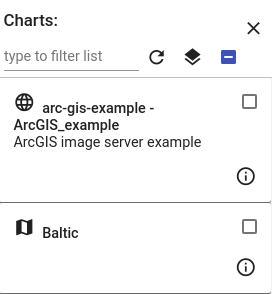
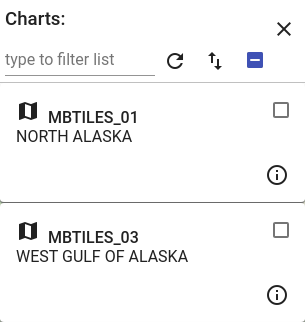
Chart List ordering (closes #88)

diff --git a/src/app/modules/skresources/lists/chartlist.ts b/src/app/modules/skresources/lists/chartlist.ts
@@ -1,7 +1,8 @@
-import { Component, Input, Output, EventEmitter, ChangeDetectionStrategy } from '@angular/core';
+import { Component, Input, Output, OnInit, EventEmitter, ChangeDetectionStrategy } from '@angular/core';
 import { MatDialog } from '@angular/material/dialog'
+import { CdkDragDrop, moveItemInArray } from '@angular/cdk/drag-drop';
 import { AppInfo } from 'src/app/app.info';
-import { ChartInfoDialog, ChartLayersDialog} from '../resource-dialogs';
+import { ChartInfoDialog } from '../resource-dialogs';
 
 @Component({
     selector: 'chart-list',
@@ -19,6 +20,8 @@ export class ChartListComponent {
     filterText= '';
     someSel: boolean= false;
     allSel: boolean= false;    
+
+    displayChartLayers: boolean= false;
 
     constructor(private app: AppInfo, private dialog: MatDialog) { }
 
@@ -86,6 +89,112 @@ export class ChartListComponent {
         this.dialog.open( ChartInfoDialog, { data: ch });
     }
 
-    showChartLayers() { this.dialog.open(ChartLayersDialog) }
+    showChartLayers(show:boolean=false) { this.displayChartLayers= show } //this.dialog.open(ChartLayersDialog) }
+}
+
+/********* ChartLayersList***********/
+@Component({
+	selector: 'ap-chartlayers',
+	template: `
+        <div class="_ap-chartlayers">
+            <div>
+                <mat-card style="display:flex;line-height:2.3em;">
+                    <div style="flex: 1 1 auto; padding-left:20px;text-align:center;
+                            font-size: 10pt;font-style:italic;">
+                            (drag to re-order)
+                    </div>
+                    <div style="font-style:italic; border-bottom:gray 1px solid;">
+                        Top Layer
+                    </div>                
+                </mat-card>  
+            </div>
+            <div style="flex: 1 1 auto;position:relative;">
+                <div style="overflow:hidden;height:100%;">
+                    <div style="overflow:auto;" cdkDropList (cdkDropListDropped)="drop($event)">
+                        <mat-card *ngFor="let ch of chartList; let i=index;" cdkDrag>
+                            <div class="point-drop-placeholder" *cdkDragPlaceholder></div>
+
+                            <div style="display:flex;" [style.cursor]="(i>0) ? 'pointer': 'initial'"> 
+                                <div style="width:35px;">
+                                    <mat-icon color="">{{isLocal(ch[1].tilemapUrl)}}</mat-icon>
+                                </div>
+                                <div style="flex: 1 1 auto;text-overflow: ellipsis;
+                                            white-space: pre;overflow-x: hidden;">
+                                    {{ch[1].name}}
+                                </div>   
+                                <div cdkDragHandle matTooltip="Drag to re-order charts">
+                                    <mat-icon>drag_indicator</mat-icon>  
+                                </div>  
+                            </div>
+                        </mat-card>
+                    </div>
+                </div>
+            </div>
+            <div>
+                <mat-card style="display:flex;line-height:2.3em;">
+                    <div></div>
+                    <div style="flex: 1 1 auto; padding-left:20px;text-align:center;font-size: 10pt;
+                                font-style: italic;">
+                        (e.g. World Map)
+                    </div>
+                    <div style="font-style:italic; border-bottom:gray 1px solid;">
+                        Base Layer 
+                    </div>
+                </mat-card>
+            </div>
+        </div>	
+    `,
+    styles: [`  ._ap-chartlayers {
+                    font-family: roboto;
+                    border: red 0px solid;
+                    display: flex;
+                    flex-direction: column;
+                }
+                .ap-confirm-icon { 
+                    min-width: 35px;
+                    max-width: 35px;
+                    color: darkorange;
+                    text-align: left;                    
+                }
+                .ap-confirm-icon .mat-icon { 
+                    font-size: 25pt;
+                }
+                .point-drop-placeholder {
+                    background: #ccc;
+                    border: dotted 3px #999;
+                    min-height: 80px;
+                    transition: transform 250ms cubic-bezier(0, 0, 0.2, 1);
+                }
+                .cdk-drag-preview {
+                    background-color: whitesmoke;
+                    box-sizing: border-box;
+                    border-radius: 4px;
+                    box-shadow: 0 5px 5px -3px rgba(0, 0, 0, 0.2),
+                                0 8px 10px 1px rgba(0, 0, 0, 0.14),
+                                0 3px 14px 2px rgba(0, 0, 0, 0.12);
+                }              	
+			`]
+})
+export class ChartLayers implements OnInit {
+
+    constructor( public app:AppInfo ) {
+    }
+
+    chartList= [];
+    
+	//** lifecycle: events **
+    ngOnInit() {
+        this.chartList= this.app.data.charts.slice().reverse();
+    }
+
+    drop(e:CdkDragDrop<any>) {
+        moveItemInArray(this.chartList, e.previousIndex, e.currentIndex);
+        // update and save config
+        this.app.data.charts= this.chartList.slice().reverse();
+        this.app.config.selections.chartOrder= this.app.data.charts.map( i=> { return i[0] });
+        this.app.saveConfig();
+    }
+    
+    isLocal(url:string) { return (url && url.indexOf('signalk')!=-1) ? 'map' : 'language' }
 }
 

diff --git a/src/app/modules/skresources/lists/chartlist.html b/src/app/modules/skresources/lists/chartlist.html
@@ -1,9 +1,9 @@
-<div class="resourcelist">
+<div class="resourcelist" style="width:320px;">
 
     <mat-card class="title-block">
         <div style="flex: 1 1 auto;">
             <div class="title-text">Charts:</div>
-            <div>
+            <div *ngIf="!displayChartLayers">
                 <mat-form-field style="width:150px;">
                     <input #ftext type="text" matInput
                         [value]="filterText"
@@ -21,10 +21,10 @@
                     <mat-icon>refresh</mat-icon>
                 </button>  
                 <button mat-icon-button 
-                    (click)="showChartLayers()"
+                    (click)="showChartLayers(true)"
                     matTooltip="Re-order Charts"
                     matTooltipPosition="left">
-                    <mat-icon>layers</mat-icon>
+                    <mat-icon>import_export</mat-icon>
                 </button>
                 &nbsp;               
                 <mat-checkbox #selall color="primary"
@@ -34,6 +34,17 @@
                     [matTooltip]="(!selall.checked || someSel) ? 'Select All' : 'Deselect All'"
                     matTooltipPosition="right">
                 </mat-checkbox>                             
+            </div>
+            <div *ngIf="displayChartLayers" style="display:flex;">
+                <div>
+                    <button mat-icon-button (click)="showChartLayers(false)">
+                        <mat-icon>arrow_back</mat-icon>
+                    </button>
+                </div>
+                <div style="flex: 1 1 auto;text-align:center;line-height: 2.5em;">
+                    Chart Order
+                </div>
+
             </div>
         </div>
         <div>
@@ -47,7 +58,7 @@
     </mat-card>
 
     <div class="resources">
-        <cdk-virtual-scroll-viewport itemSize="80" class="vscroller">
+        <cdk-virtual-scroll-viewport itemSize="80" class="vscroller" *ngIf="!displayChartLayers">
             <mat-card *cdkVirtualFor="let r of filterList; let i= index;"
                     style="border-bottom: silver 1px outset;">
                 <div style="display: flex;">
@@ -83,5 +94,6 @@
                 </mat-card-actions>                
             </mat-card>
         </cdk-virtual-scroll-viewport>
+        <ap-chartlayers *ngIf="displayChartLayers" (closed)="showChartLayers(false)"></ap-chartlayers>
     </div>
 </div>
